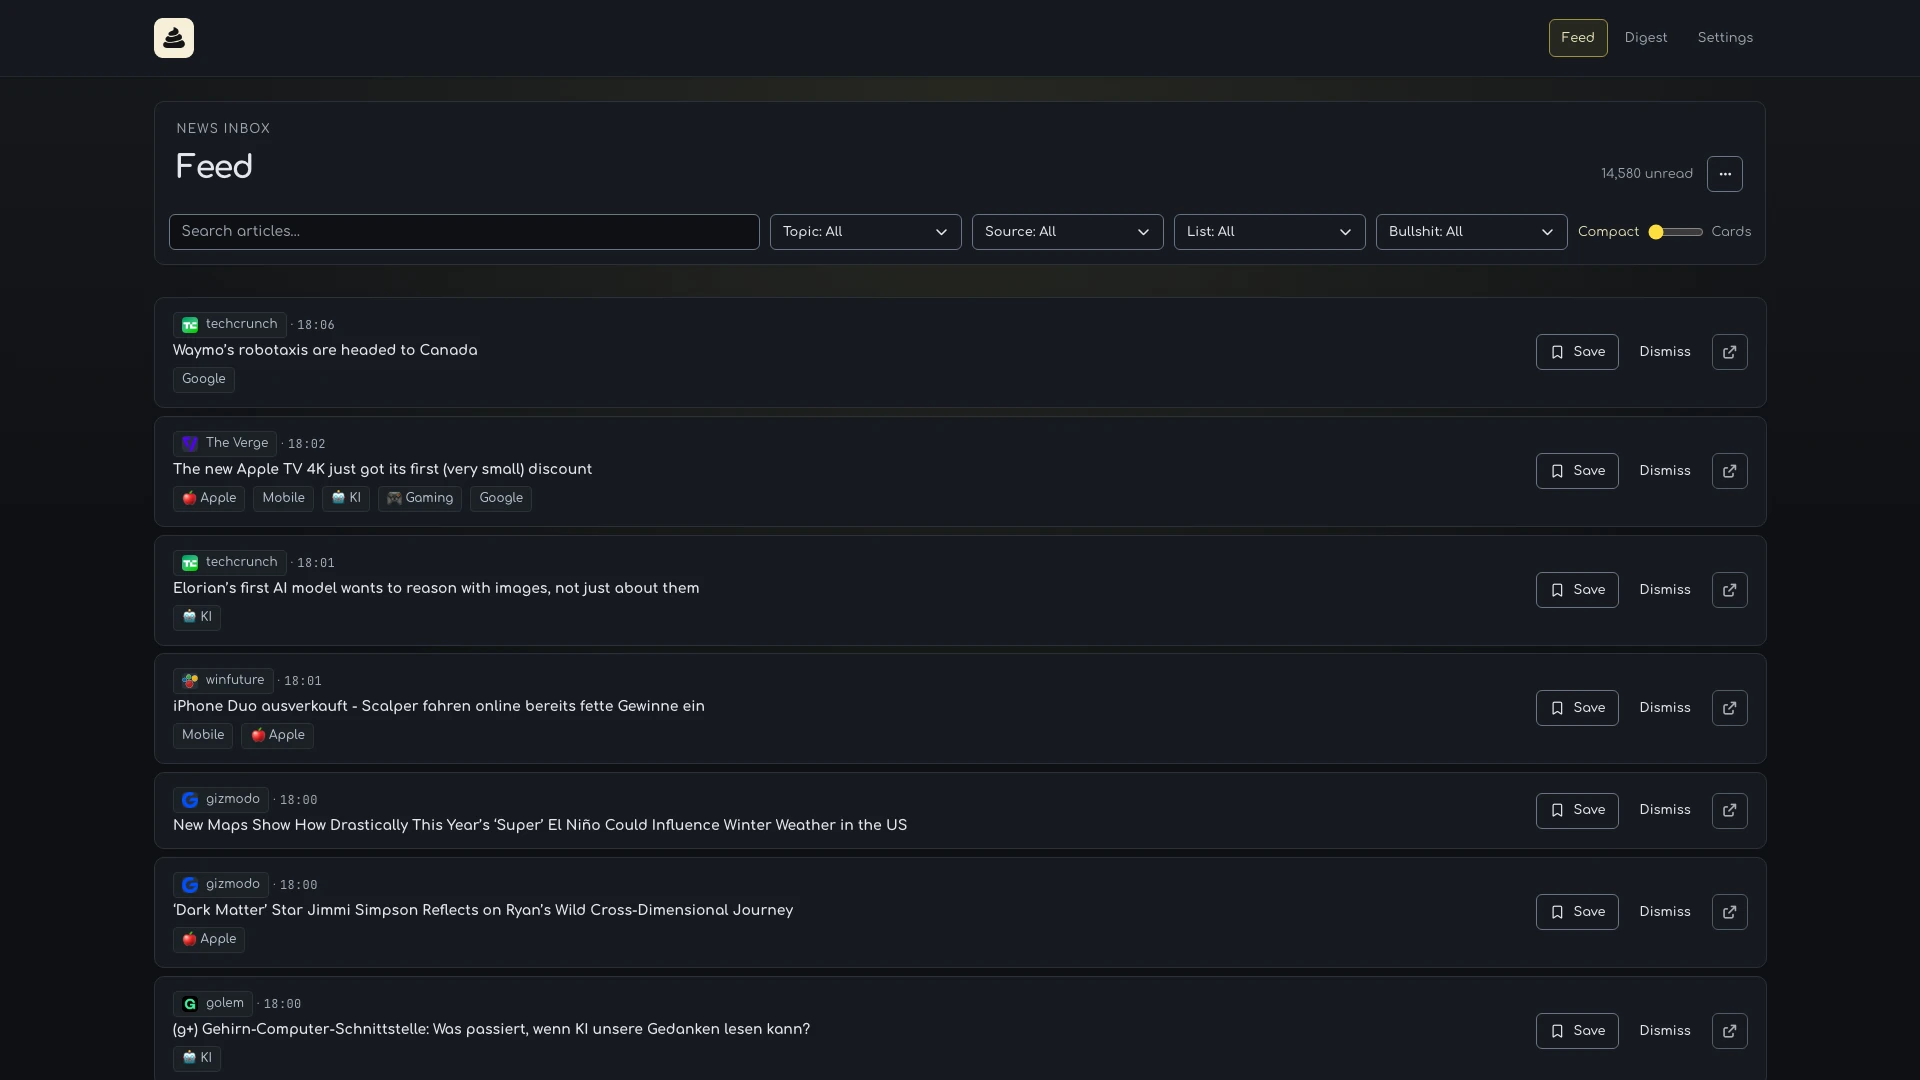
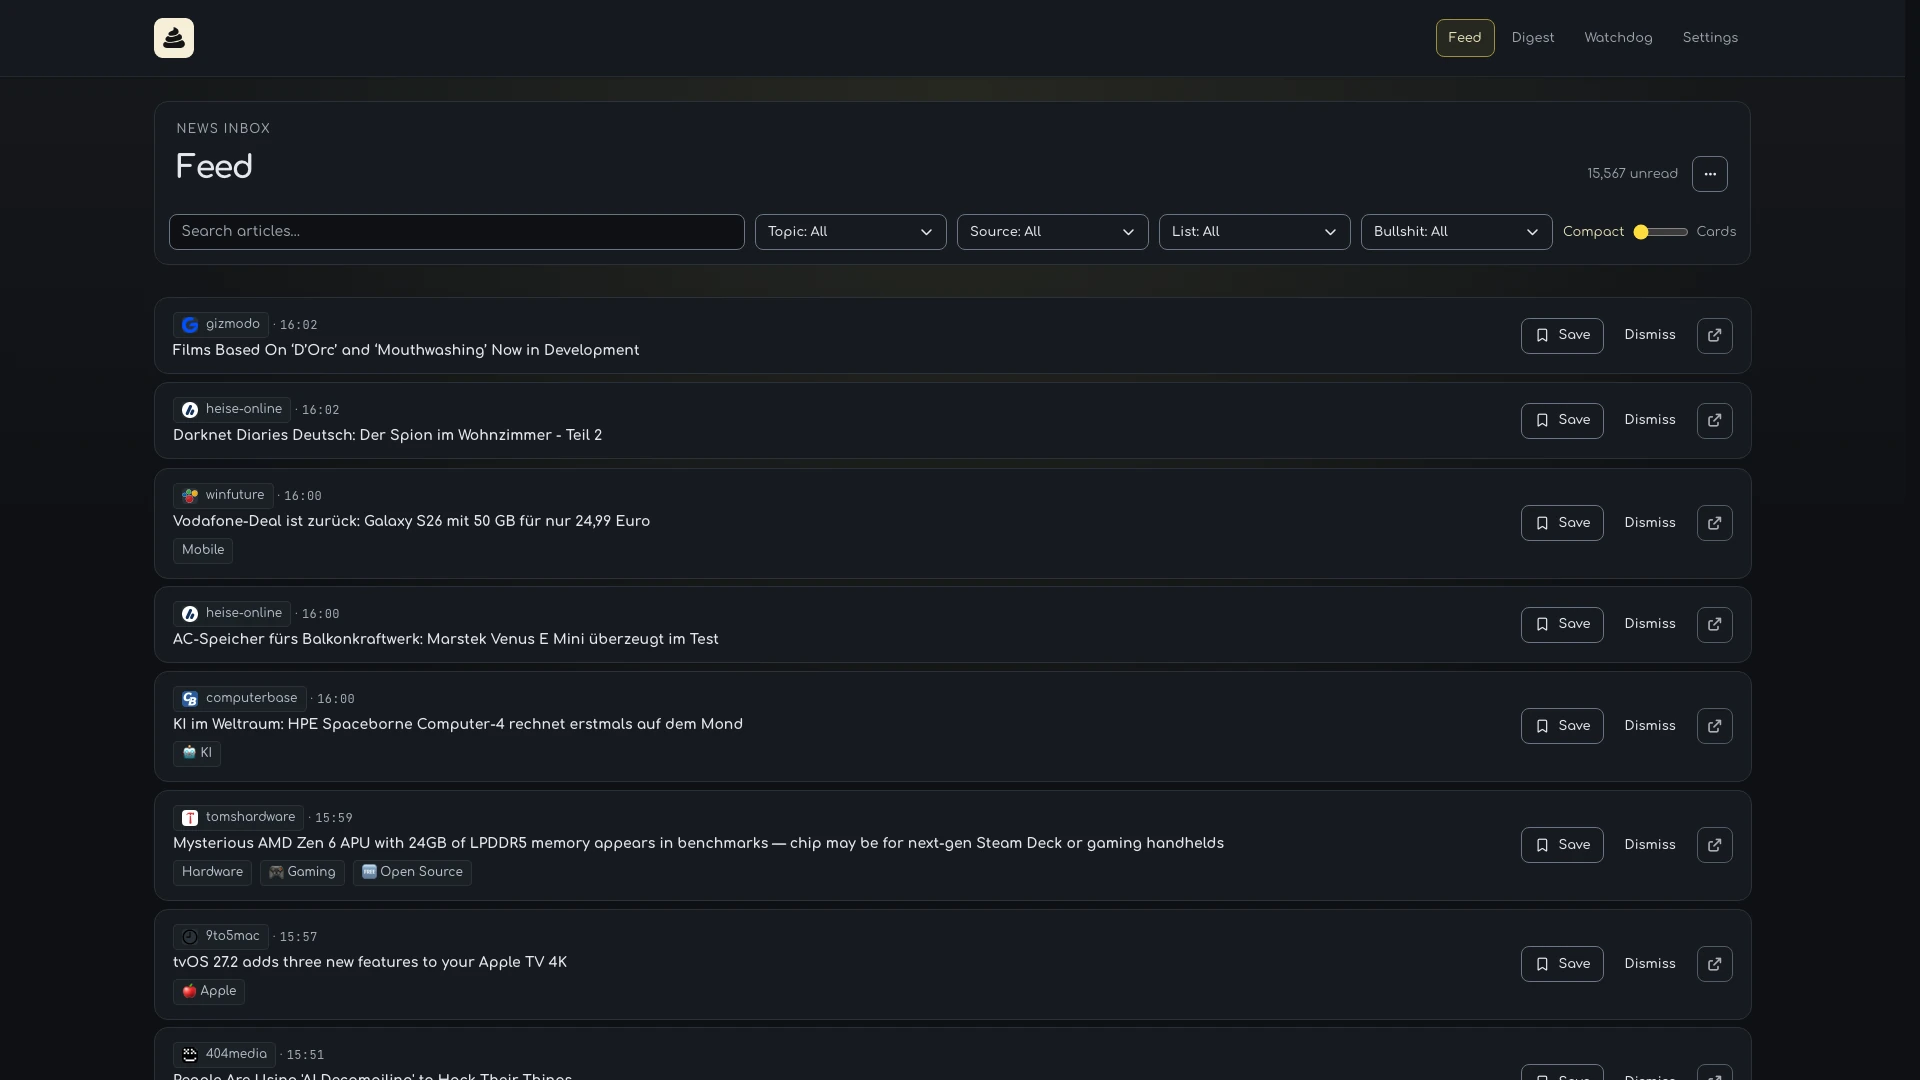
adding a screenshot for watchdog

diff --git a/scripts/generate-mockups.js b/scripts/generate-mockups.js
@@ -109,6 +109,15 @@ async function generateMockups(url) {
         await page.locator('[data-digest-range="month"][aria-pressed="true"]').waitFor({ state: 'visible' });
         await capture(page, 'digest_month.webp', errors);
 
+        const watchdogLoaded = page.waitForResponse(response =>
+            new URL(response.url()).pathname === '/api/watchdogs/matches' && response.ok());
+        await page.locator('.nav-link[data-view="watchdog"]').click();
+        await watchdogLoaded;
+        await page.locator('#view-watchdog').waitFor({ state: 'visible' });
+        await page.waitForFunction(() => document.getElementById('watchdog-results')?.getAttribute('aria-busy') === 'false');
+        await page.locator('#watchdog-inbox').evaluate(inbox => { inbox.scrollTop = 0; });
+        await capture(page, 'watchdog.webp', errors);
+
         await page.locator('.nav-link[data-view="settings"]').click();
         await page.locator('#settings-feeds-tab').click();
         await page.locator('#settings-feeds').waitFor({ state: 'visible' });
@@ -141,7 +150,7 @@ async function main() {
     });
     if (values.help) {
         console.log(
-            'Usage: npm run screenshots -- [--url http://127.0.0.1:1377]\nCreates five 1920 × 1080 WebPs and replaces public/images/mockups/. Starts a temporary local server from existing app data when needed.',
+            'Usage: npm run screenshots -- [--url http://127.0.0.1:1377]\nCreates six 1920 × 1080 WebPs, including Watchdog, and replaces public/images/mockups/. Starts a temporary local server from existing app data when needed.',
         );
         return;
     }

diff --git a/scripts/publish.test.js b/scripts/publish.test.js
@@ -33,7 +33,7 @@ test('publish dry run reads # release headings and only the newest notes', async
     const result = await dryRun('# 1.1.2\n\n- New release\n\n# 1.1.1\n\n- Old release\n');
     assert.equal(result.status, 0, result.stderr);
     assert.match(result.stdout, /Tag: v1\.1\.2/);
-    assert.match(result.stdout, /Mockups: generate five WebP screenshots before the release commit/);
+    assert.match(result.stdout, /Mockups: generate six WebP screenshots before the release commit/);
     assert.match(result.stdout, /Homebrew: update oliverjessner\/homebrew-tap after the DMG upload/);
     assert.match(result.stdout, /Release notes:\n# 1\.1\.2\n\n- New release\n$/);
     assert.doesNotMatch(result.stdout, /Old release/);

diff --git a/docs/changelog.md b/docs/changelog.md
@@ -9,6 +9,7 @@
 - Move Watchdog notification preferences to Settings → Notifications; add Feed-compatible Markdown/JSON/CSV/link exports, publication-time filters, and full-card mouse/keyboard activation.
 - Preserve loaded Watchdog pages, pagination cursors and scroll position when changing read/archive state or receiving live updates; add articles to lists through the existing list dialog.
 - Rename the Settings feed tab to RSS Feeds.
+- Include the Watchdog view in the regular six-image screenshot generation and README.
 - Fix feed logo discovery with Fetchary 2.0.4 for redirected webpages, manifests and icons while preserving download size limits and timeouts.
 
 # 1.4.0

diff --git a/README.md b/README.md
@@ -32,6 +32,8 @@ Open **Watchdog** between Digest and Settings, then choose **New watchdog**. Mat
 
 All rules, matches and reading states stay in the local SQLite database. Watchdog reuses the existing five-minute RSS scheduler. [API and verification details](docs/watchdog.md).
 
+![NO BULLSHIT RSS Watchdog](public/images/mockups/watchdog.webp)
+
 ## Install
 
 Requires **macOS 13 (Ventura) or newer** on **Apple Silicon (M1 or newer)**.
